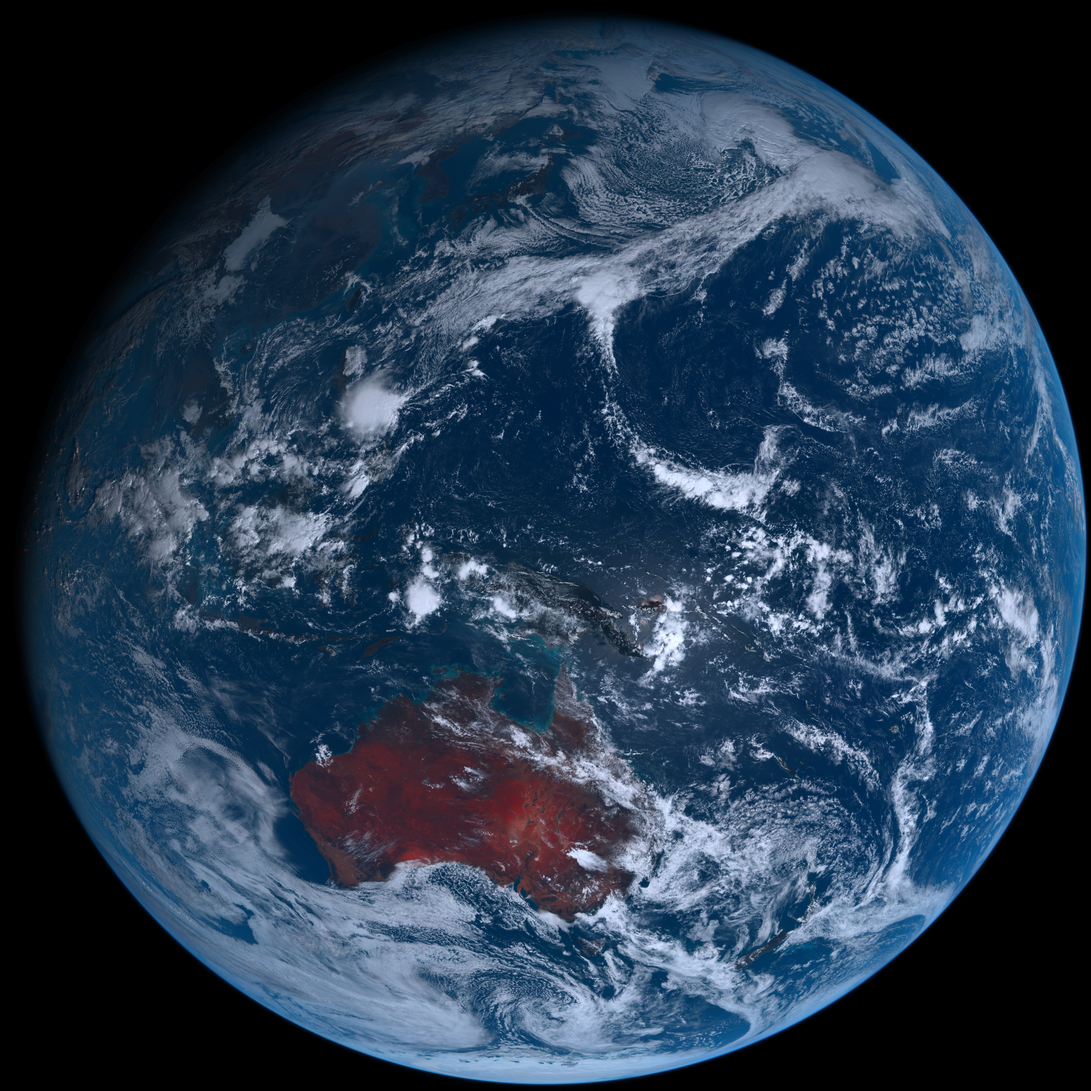
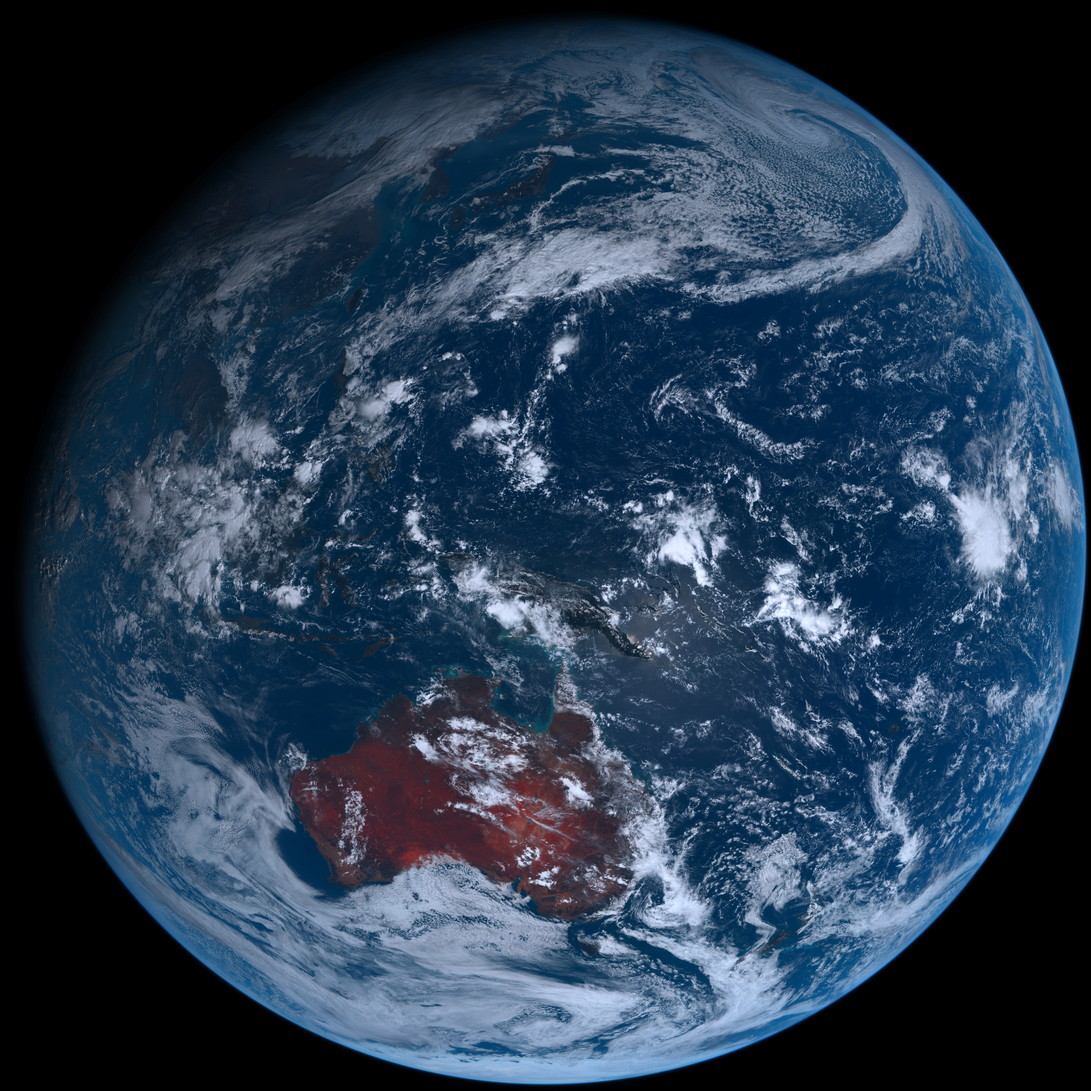
Wednesday 11/22/2023 03:09 +00

diff --git a/README.md b/README.md
@@ -1,12 +1,12 @@
 # ps1
 
 - ### [BingWallpaper](https://github.com/milankomaj/ps1/wiki/BingWallpaper)  [![Generate Wallpapers Github README.md](https://github.com/milankomaj/ps1/actions/workflows/GenWall.yml/badge.svg?event=schedule)](https://github.com/milankomaj/ps1/actions/workflows/GenWall.yml)
-- ##### Tuesday 21/11/2023 03:08:43 +00
+- ##### Wednesday 22/11/2023 03:08:33 +00
 <img src="BingWallpaper/latest.jpg" width="700" height="auto" title="👉  BingWallpaper  👈">
-Grey seal pup on the beach of Norfolk, England (© Vince Burton/Minden Pictures)
+Grand Teton National Park, Wyoming, USA (© Westend61/Getty Images)
 
 - ### [Himawari](https://github.com/milankomaj/ps1/wiki/Himawari) [![Generate Wallpapers Github README.md](https://github.com/milankomaj/ps1/actions/workflows/GenWall.yml/badge.svg?event=schedule)](https://github.com/milankomaj/ps1/actions/workflows/GenWall.yml) [![Video](https://github.com/milankomaj/ps1/actions/workflows/video.yml/badge.svg?event=schedule)](https://github.com/milankomaj/ps1/actions/workflows/video.yml)
-- ##### Tuesday 21/11/2023 03:09:17 +00
+- ##### Wednesday 22/11/2023 03:09:09 +00
 <img src="Himawari/latest.jpg" width="auto" height="371" title="👉  Himawari  👈"> <img src="Himawari/pifd/himawari_pifd.webp" width="auto" height="371"/>
 
 
